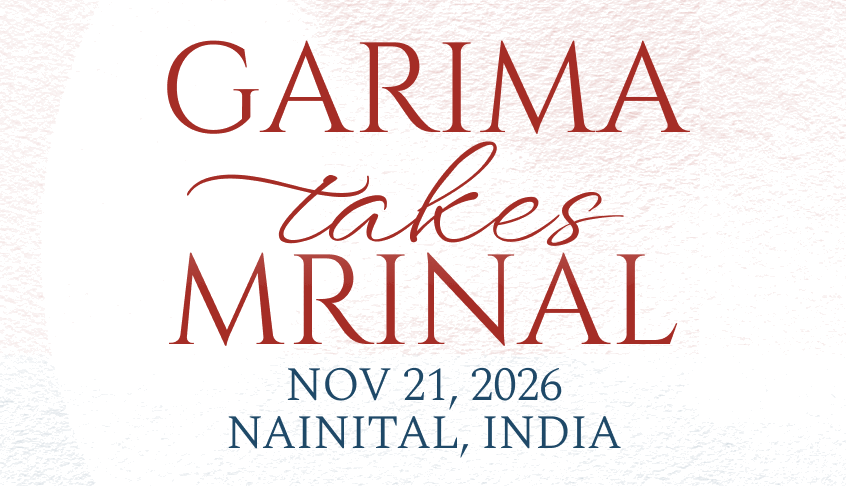
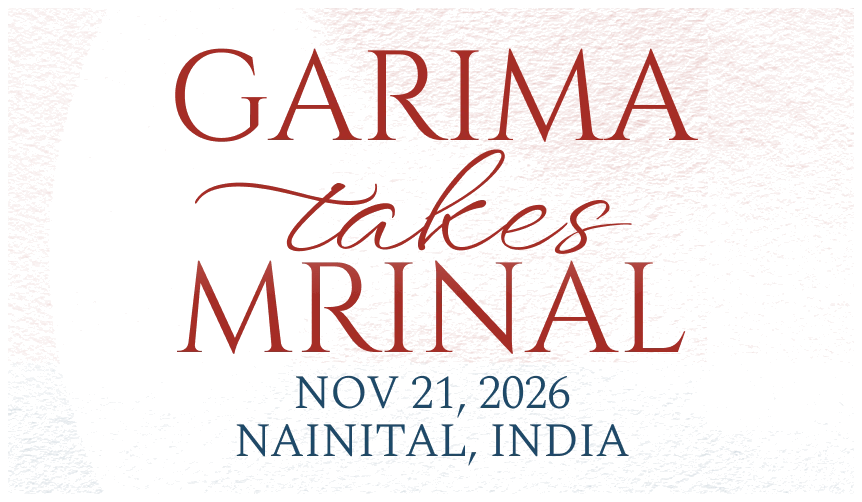
Render master centerpiece lockup at 72vw width matching reference design screenshot pixel-by-pixel

diff --git a/index.html b/index.html
@@ -23,7 +23,7 @@
 <link rel="preconnect" href="https://fonts.googleapis.com">
 <link rel="preconnect" href="https://fonts.gstatic.com" crossorigin>
 <link href="https://fonts.googleapis.com/css2?family=Cinzel:wght@400;500;600;700&family=Cormorant+Garamond:ital,wght@0,300;0,400;0,500;0,600;0,700;1,400;1,500&family=Spectral:wght@200;300;400;500;600;700&family=WindSong&display=swap" rel="stylesheet">
-<link rel="stylesheet" href="css/site.css?v=3140">
+<link rel="stylesheet" href="css/site.css?v=3160">
 <style>
 @font-face {
   font-family: 'WindSong';
@@ -123,81 +123,35 @@ html, body {
   100% { transform: translateX(-50%) rotate(1.4deg) translateY(-0.5px) skewX(-0.5deg); }
 }
 
-/* ── 3. Central Typography (Grand Display + WindSong Script + Spectral Date) ── */
+/* ── 3. Central Typography Centerpiece (Pixel-by-Pixel Master Design Lockup) ── */
 .home-hero-text {
   position: absolute;
-  top: 45%;
+  top: 48%;
   left: 50% !important;
   transform: translate(-50%, -50%) !important;
   width: 100% !important;
   max-width: 440px;
-  height: 250px;
-  display: block;
+  display: flex;
+  flex-direction: column;
+  align-items: center;
+  justify-content: center;
   z-index: 3;
   pointer-events: none;
 }
 
-.home-name {
-  position: absolute;
-  left: 50%;
-  transform: translateX(-50%);
-  width: 100%;
-  text-align: center;
-  font-family: 'Cinzel', serif;
-  font-size: clamp(62px, 16vw, 72px) !important;
-  font-weight: 300 !important;
-  line-height: 0.95 !important;
-  color: #a52d25;
-  letter-spacing: 0.02em;
-  text-transform: uppercase;
-  margin: 0;
-  white-space: nowrap;
-}
-
-.home-script-wrap {
-  position: absolute;
-  top: 48px;
-  left: 50%;
-  transform: translateX(-50%);
-  width: 100%;
-  text-align: center;
-  z-index: 2;
-  pointer-events: none;
-}
-
-.home-script {
-  font-family: 'WindSong', cursive;
-  font-size: clamp(54px, 14vw, 64px) !important;
-  font-weight: 400;
-  line-height: 0.88 !important;
-  color: #a52d25;
-  display: inline-block;
-  white-space: nowrap;
-}
-
-.home-date-location {
-  position: absolute;
-  top: 182px;
-  left: 50%;
-  transform: translateX(-50%);
-  width: 100%;
-  text-align: center;
-  margin: 0;
+.home-centerpiece-wrap {
+  width: min(310px, 72vw);
   display: flex;
-  flex-direction: column;
   align-items: center;
-  gap: 3px;
+  justify-content: center;
+  margin: 0 auto;
 }
 
-.home-date-location p {
-  font-family: 'Spectral', Georgia, serif !important;
-  font-size: clamp(18px, 4.6vw, 21px) !important;
-  font-weight: 400 !important;
-  line-height: 1.28 !important;
-  color: #0b4c6d;
-  letter-spacing: 0 !important;
-  text-transform: uppercase;
-  margin: 0;
+.home-centerpiece-img {
+  width: 100%;
+  height: auto;
+  display: block;
+  filter: drop-shadow(0 2px 8px rgba(167, 31, 35, 0.05));
 }
 
 /* ── 4. Butterfly (Centered Below Date, Flapping Wings) ── */
@@ -576,15 +530,10 @@ html, body {
     <img src="images/Welcome_Flowers.png" alt="Botanical Floral Bouquet">
   </div>
 
-        <!-- ── 3. Central Typography ── -->
+          <!-- ── 3. Central Typography Centerpiece (Pixel-by-Pixel Master Design Lockup) ── -->
   <div class="home-hero-text">
-    <h1 class="home-name" style="top: 0px; font-size: clamp(62px, 16vw, 72px) !important; font-weight: 300 !important; line-height: 0.95 !important;">GARIMA</h1>
-    <div class="home-script-wrap" style="top: 48px;"><span class="home-script" style="font-size: clamp(54px, 14vw, 64px) !important; line-height: 0.88 !important;">takes</span></div>
-    <h1 class="home-name" style="top: 110px; font-size: clamp(62px, 16vw, 72px) !important; font-weight: 300 !important; line-height: 0.95 !important;">MRINAL</h1>
-
-    <div class="home-date-location" style="top: 182px;">
-      <p>NOV 21, 2026</p>
-      <p>NAINITAL, INDIA</p>
+    <div class="home-centerpiece-wrap">
+      <img src="images/home_centerpiece.png?v=3160" alt="GARIMA takes MRINAL · NOV 21, 2026 · NAINITAL, INDIA" class="home-centerpiece-img">
     </div>
   </div>
 
@@ -889,7 +838,7 @@ document.addEventListener('DOMContentLoaded', function() {
   }
 });
 </script>
-<script src="js/spa-nav.js?v=3140"></script>
-<script src="js/global-audio.js?v=3140"></script>
+<script src="js/spa-nav.js?v=3160"></script>
+<script src="js/global-audio.js?v=3160"></script>
 </body>
 </html>
